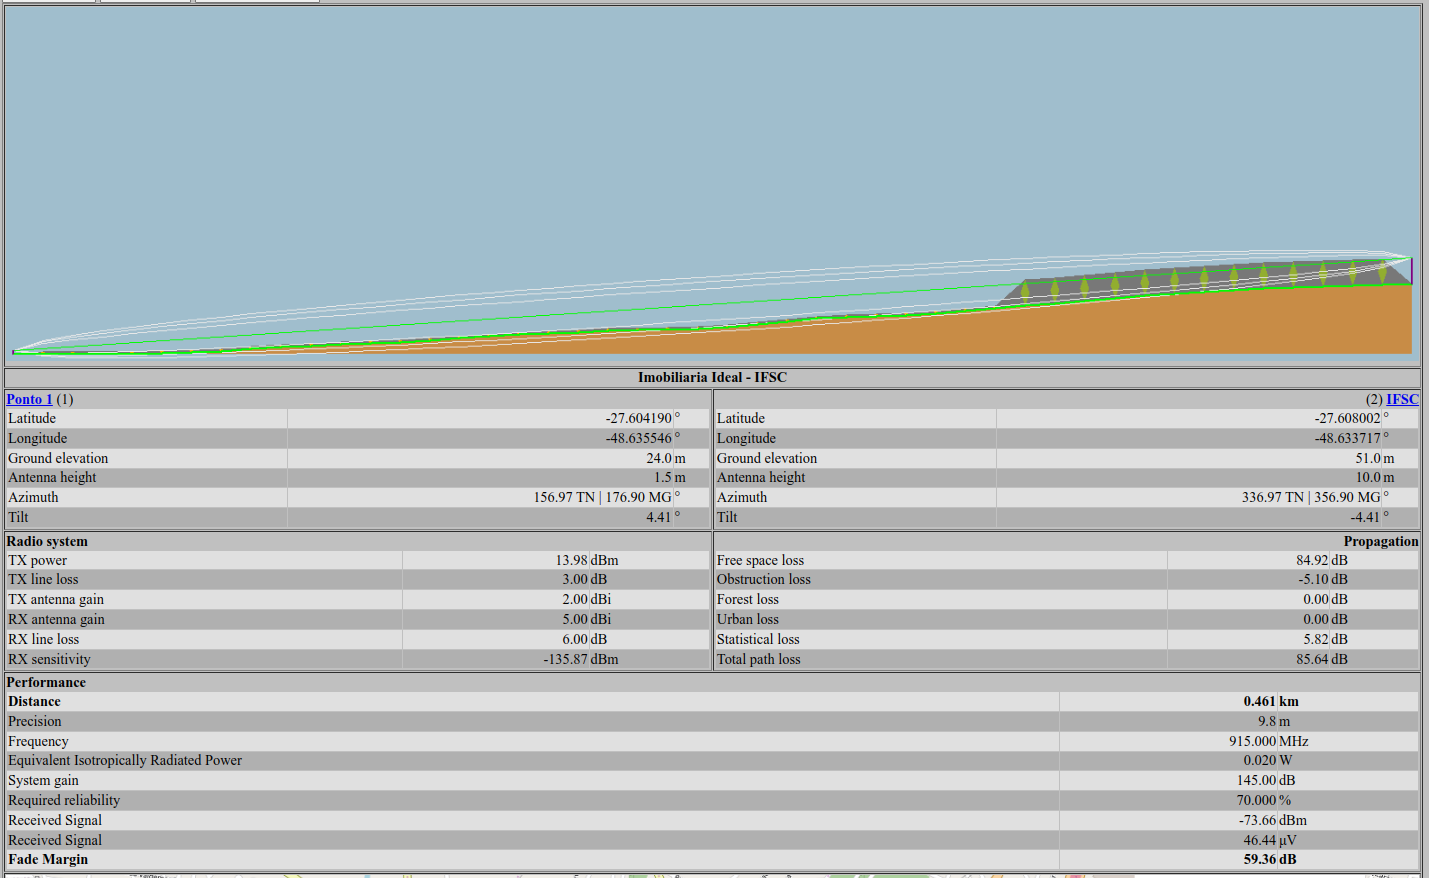
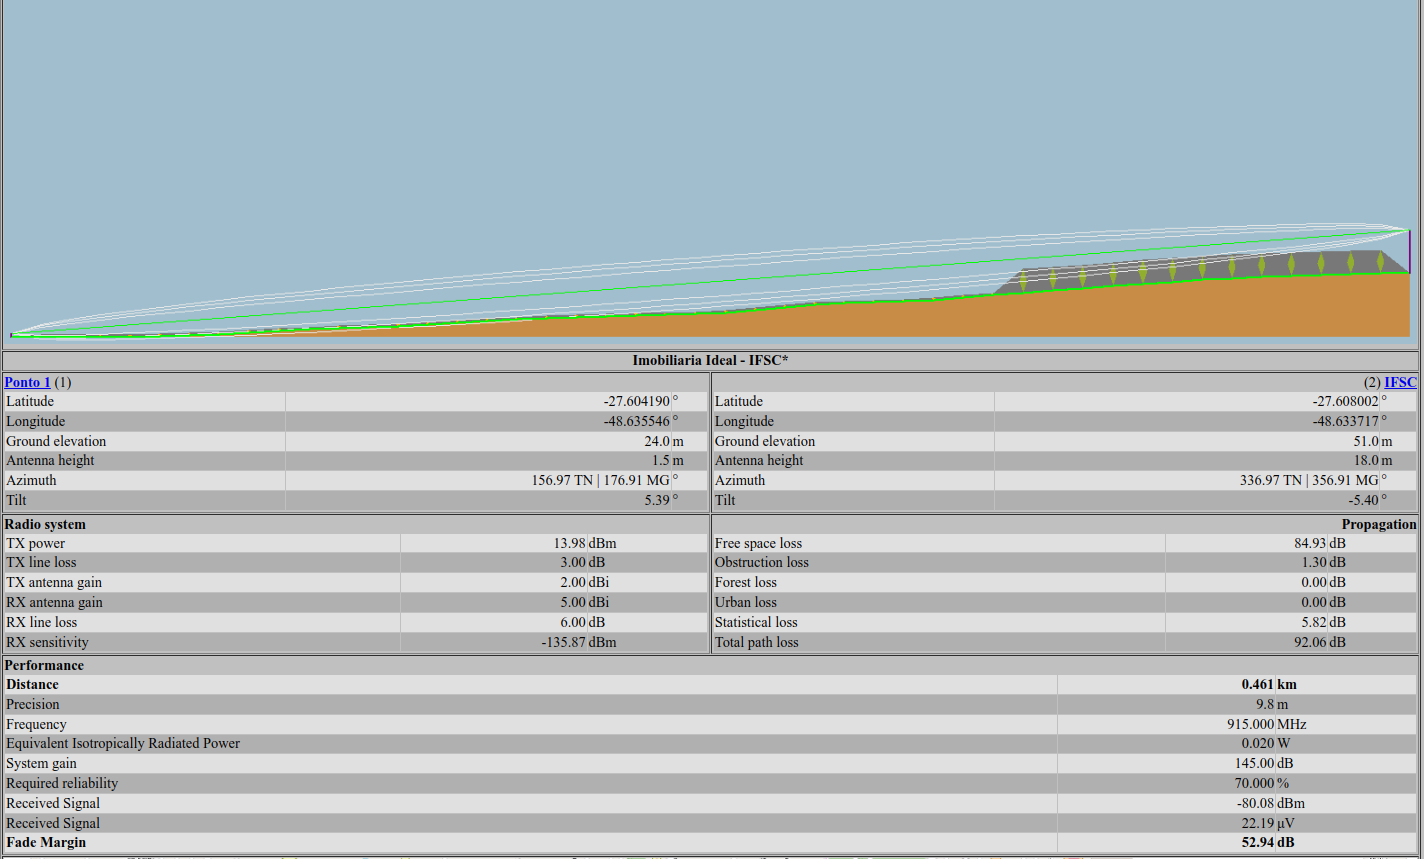
doc: Adicionando dados faltantes na tabela

Changed region(s): [[0.0, 0.0, 1.0, 1.0]]

diff --git a/README.md b/README.md
@@ -70,10 +70,10 @@ A tabela a seguir apresenta uma comparação dos valores de Potência Recebida (
 
 | Local               | RSSI simulada (dBm)  | PL simulada (dB) | RSSI medido (dBm) | PL medido (dB) |
 |---------------------|----------------------|------------------|-------------------|----------------|
-| Milium              | -86.92               | -                | -109.045455       | 122.935455     |
+| Milium              | -86.92               | 98.89            | -109.045455       | 122.935455     |
 | Florifarma          | -97.71               | 109.71           | -101.090909       | 114.980909     |
 | Bradesco            | -88.72               | 100.73           | -107.000000       | 120.890000     |
-| Imobiliária Ideal   | -80.08               | -                | -85.6562500       | 99.5462500     |
+| Imobiliária Ideal   | -80.08               | 92.06            | -85.6562500       | 99.5462500     |
 | Anhanguera          | -107.79              | 119.79           | -96.6086960       | 110.498696     |
 
 
